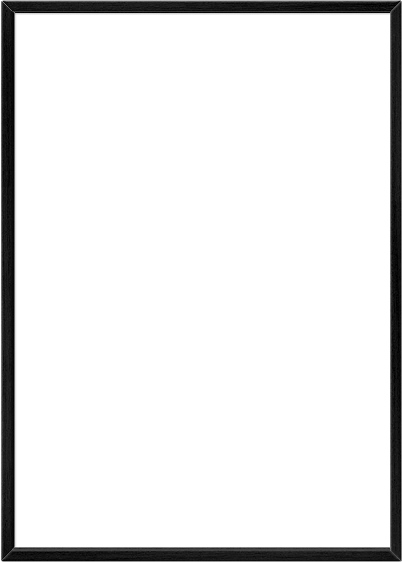
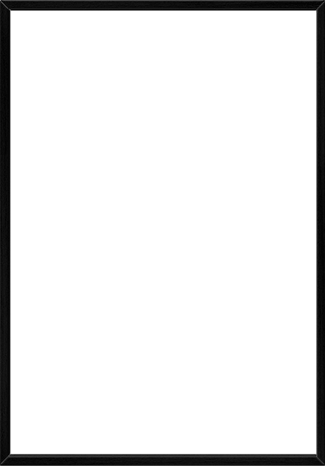
Fixed the damn video size

Changed region(s): [[0.0, 0.0, 1.0, 1.0]]

diff --git a/index.html b/index.html
@@ -9,7 +9,7 @@
 <meta name="viewport" content="width=device-width,initial-scale=1">
 <link rel="stylesheet" href="css/normalize.css">
 <link rel="stylesheet" href="css/styles.css">
-<link href="https://fonts.googleapis.com/css?family=Oleo+Script|Shrikhand|Sonsie+One&display=swap" rel="stylesheet">
+<link href="https://fonts.googleapis.com/css?family=Shrikhand&display=swap" rel="stylesheet">
     
 
 </head>
@@ -20,15 +20,6 @@
     <source src="images/circus.mp3" type="audio/mpeg">
 </audio>
 
- <!--Navigation bar-->
-<div id="nav-placeholder"></div>
-    
-<script>
-$(function(){
-  $("#nav-placeholder").load("nav.html");
-});
-</script>
-<!--end of Navigation bar-->
 
 <div class="brick"></div>  
 
@@ -39,9 +30,8 @@ $(function(){
     
 
     
-    <video playsinline autoplay muted loop id="myVideo">
-<source src="images/Brian-c.mp4" type="video/mp4"
-heigth="400" alt="Idiot Brother">
+    <video height="466" width="323" playsinline autoplay muted loop id="myVideo">
+<source src="images/Brian-c.mp4" type="video/mp4">
 <p>Sorry, but your browser doesn't support HTML5 video.</p>
 </video>
     
@@ -53,7 +43,7 @@ heigth="400" alt="Idiot Brother">
     
   <img class="center-curtains-right" src="images/center-curtain.png" alt="Theatre Curtains Opening">
 
-    <img class="floor" src="images/floor.jpg" alt="">
+    <div class="floor"></div>
     
    
 <img class="monkey-1" src="images/sock-monkey-1.png" alt="">

diff --git a/css/styles.css b/css/styles.css
@@ -33,7 +33,7 @@ body {
 
 
 .brick {
-    background-image: url(/images/brick-l.jpg);
+    background-image: url(../images/brick-l.jpg);
     width: 100vw;
     height: 100vh;
     background-repeat: repeat;
@@ -46,8 +46,6 @@ body {
     top: 28%;
     left: 50%;
     transform: translateX(-50%);
-    width: 300px;
-    height: 400px;
     z-index: 99995;
 }
 
@@ -58,8 +56,8 @@ body {
     top: 28%;
     left: 50%;
     transform: translateX(-50%);
-    width: 287px;
-    height: 400px;
+    height: 466px;
+    width: 323px;
 }
 
 
@@ -80,7 +78,7 @@ body {
     height: 102vh;
     z-index: 99995;
     animation: moveleft ease 5s forwards;
-    animation-delay: 5s;
+    animation-delay: 3s;
 }
 
 
@@ -92,7 +90,7 @@ body {
     height: 102vh;
     z-index: 99995;
     animation: moveright ease 5s forwards;
-    animation-delay: 5s;
+    animation-delay: 3s;
 }
 
 
@@ -137,9 +135,12 @@ body {
 
 .floor {
     position: absolute;
-    bottom: 0;
+    background-image: url(../images/floor.jpg);
+    height: 164px;
+    width: 100%;
+    background-repeat: repeat-x;
+    bottom: -50px;
     left: 0;
-    width: 100vw;
     z-index: 99999;
 }
 
